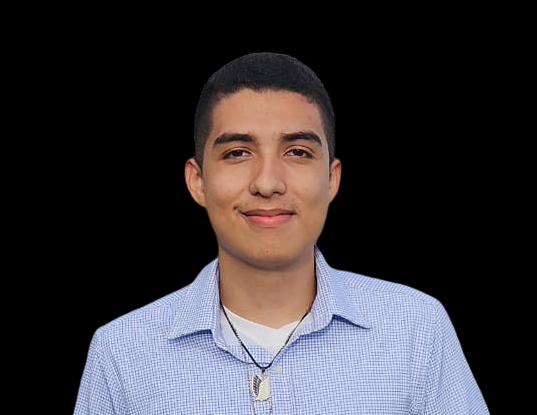
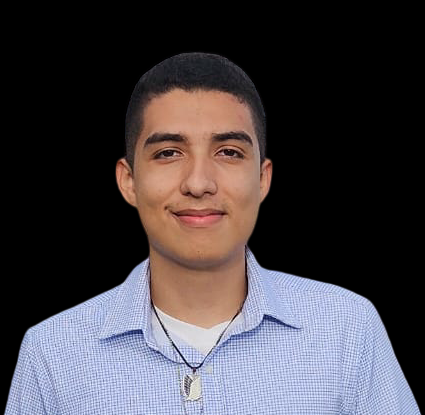
Fix: Error de diseño al tener el zoom al 100%

diff --git a/css/style.css b/css/style.css
@@ -95,7 +95,6 @@ nav .nav-toggle{
 .nav-movile a{
     color: var(--text-paragraph-color);
     text-decoration: none;
-
 }
 .nav-movile.open{
     font-size: 1.2rem;
@@ -142,20 +141,18 @@ main #inicio{
     gap: 0.5rem;
 }
 #inicio::before{
-  content: ''; 
-  position: absolute;
-  top: 0;
-  left: 0;
-  right: 0;
-  bottom: -6rem;
-  min-width: 360px;
+    content: ''; 
+    position: absolute;
+    top: 0;
+    left: 0;
+    right: 0;
+    bottom: -6rem;
+    min-width: 360px;
   /* background-color: rgba(0, 0, 0, 0.5); 
     filter: blur(5px) grayscale(80%); */
-   background-color: rgba(0, 0, 0, 0.4);
+    background-color: rgba(0, 0, 0, 0.4);
     filter: blur(5px) grayscale(80%);
-
-  z-index: 1;
-
+    z-index: 1;
 }
 
 
@@ -190,19 +187,24 @@ h2{
     grid-template-columns: 1fr;
     flex-direction: column;
     background-color: var(--secondary-color);
-    padding: 20px;
     text-align: center;
     border-radius: 20px;
+    padding: 20px;
     margin: 1rem;
+    margin-top: 2rem;
 }
 
 #sobre-mi .foto{
+    display: flex;
+    justify-content: center;
     align-self: center;
-    background-color: var(--primary-color);
-    width: 200px;
-    height: 200px;
-    border-radius: 20px;
+    /* background-color: var(--primary-color); */
     margin: 1rem;
+}
+#sobre-mi .foto > img{
+    width: 98%;
+    height: 94%;
+    border-radius: 20px;
 }
 #sobre-mi .info{
     justify-items: left;
@@ -235,30 +237,32 @@ h2{
     transition: 0.5s ease;
     /* scale: 1; */
 }
-@media (min-width: 980px) {
-    #sobre-mi{
-        flex-direction: row;
-        text-align: left;
-    }
-    #sobre-mi .foto{
-    width: 400px;
-    height: 400px;
-    }
-    #sobre-mi .info{
-        padding: 2rem;
-    }
-    #sobre-mi h2{
-        justify-self:start;
-        font-size: 3rem;
-    }
-    #sobre-mi p{
-        font-size: 1.5rem;
-    }
-    #sobre-mi a{
-        padding: 15px 25px;
-        font-size: 1.3rem;
-    }
+
+
+#proyectos{
+    background-color: var(--secondary-color);
+    padding: 20px;
+    border-radius: 20px;
+    margin: 1rem;
+    margin-top: 2rem;
 }
+
+
+#intereses-Publicaciones{
+    background-color: var(--secondary-color);
+    padding: 20px;
+    border-radius: 20px;
+    margin: 1rem;
+    margin-top: 2rem;
+}
+#contacto{
+    background-color: var(--secondary-color);
+    padding: 20px;
+    border-radius: 20px;
+    margin: 1rem;
+    margin-top: 2rem;
+}
+
 
 footer{
     background-color: var(--secondary-color);
@@ -334,6 +338,7 @@ body > #traductor{
         padding: 8px 15px;
     }
 }
+
 @media (min-width: 980px) {
     .text{
         margin-top: -7rem;
@@ -345,6 +350,30 @@ body > #traductor{
     .text p{
         font-size: 1.5rem;
     }
+
+    #sobre-mi{
+        flex-direction: row;
+        text-align: left;
+    }
+    #sobre-mi .foto{
+         width: 400px;
+        height: 400px;
+    }
+    #sobre-mi .info{
+        padding: 2rem;
+    }
+    #sobre-mi h2{
+        justify-self:start;
+        font-size: 3rem;
+    }
+    #sobre-mi p{
+        font-size: 1.5rem;
+    }
+    #sobre-mi a{
+        padding: 15px 25px;
+        font-size: 1.3rem;
+    }
+
     body > #traductor{
         bottom: 5rem;
     }
@@ -353,27 +382,93 @@ body > #traductor{
         padding: 12px 20px;
     }
 }
+/* Este es el de mi pantalla */
 @media (min-width: 1200px) {
+    nav ul{
+        padding: 15px 15px;
+    }
+    nav img{
+        height: 60px;
+        width: 60px;
+    }
+    nav a{
+        font-size: 1.3rem;
+        text-decoration: none;
+        color: var(--text-paragraph-color);
+    }
+
     .text{
         margin-top: -10rem;
         width: 40%;
     }
     .text h1{
-        font-size: 4.98rem;
+        font-size: 3.50rem;
+    }
+    .text p{
+        font-size: 1.5rem;
+    }
+
+    #sobre-mi .foto{
+        width: 380px;
+        height: 380px;
+    }
+    #sobre-mi .info{
+        padding: 1.2rem;
+    }
+    #sobre-mi h2{
+        justify-self: start;
+        font-size: 2.5rem;
+    }
+    #sobre-mi p{
+        font-size: 1.3rem;
+    }
+    #sobre-mi a{
+        padding: 15px 23px;
+        font-size: 1rem;
+    }
+
+    body > #traductor{
+        bottom: 6rem;
+    }
+    #button-traductor{
+        border-radius: 20px;
+        font-size: 1.3rem;
+        padding: 16px 25px;
+    }
+}
+
+@media (min-width: 1600px) {
+    nav ul{
+        padding: 25px 25px;
+    }
+    nav img{
+        height: 80px;
+        width: 80px;
+    }
+    nav a{
+        font-size: 1.5rem;
+        text-decoration: none;
+        color: var(--text-paragraph-color);
+    }
+    .text{
+        margin-top: -12rem;
+        width: 40%;
+    }
+    .text h1{
+        font-size: 4.2rem;
     }
     .text p{
         font-size: 2rem;
     }
     body > #traductor{
-        bottom: 8rem;
+        bottom: 10rem;
     }
     #button-traductor{
-        border-radius: 22px;
-        font-size: 1.5rem;
-        padding: 18px 29px;
+        border-radius: 25px;
+        font-size: 1.8rem;
+        padding: 20px 35px;
     }
 }
-
 
 
 

diff --git a/index.html b/index.html
@@ -15,7 +15,7 @@
             <li><a href="#inicio" target="_self">Inicio</a></li>            
             <li><a href="#sobre-mi" target="_self">Sobre mí</a></li>
             <li><a href="#proyectos">Proyectos</a></li>
-            <li><a href="#intereses/Publicaciones">Intereses/Públicaciones</a></li>
+            <li><a href="#intereses-Publicaciones">Intereses/Públicaciones</a></li>
             <li><a href="#contacto">Contacto</a></li>   
         </ul>
         <div class="nav-toggle">
@@ -27,7 +27,7 @@
             <li><a href="#inicio" target="_self">Inicio</a></li>            
             <li><a href="#sobre-mi" target="_self">Sobre mí</a></li>
             <li><a href="#proyectos">Proyectos</a></li>
-            <li><a href="#intereses/Publicaciones">Intereses/Públicaciones</a></li>
+            <li><a href="#intereses-Publicaciones">Intereses/Públicaciones</a></li>
             <li><a href="#contacto">Contacto</a></li>   
         </ul>
     </div>
@@ -47,7 +47,7 @@
     </main>
     <section id="sobre-mi">
         <div class="foto">
-            <!--<img src="imagen" alt="Foto profesional de Kevin Castillo">-->
+            <img src="img/foto-fondo-negro - copia.png" alt="Foto profesional de Kevin Castillo">
         </div>
         <div class="info">
         <h2>Sobre mí</h2>
@@ -66,7 +66,7 @@
             <li>PetCare (App móvil)</li>
         </ul>
     </section>
-    <section id="intereses/Publicaciones">
+    <section id="intereses-Publicaciones">
         <h2>Intereses y Publicaciones</h2>
         <p>En esta sección puedes incluir tus intereses y publicaciones.</p>
         <ul>
